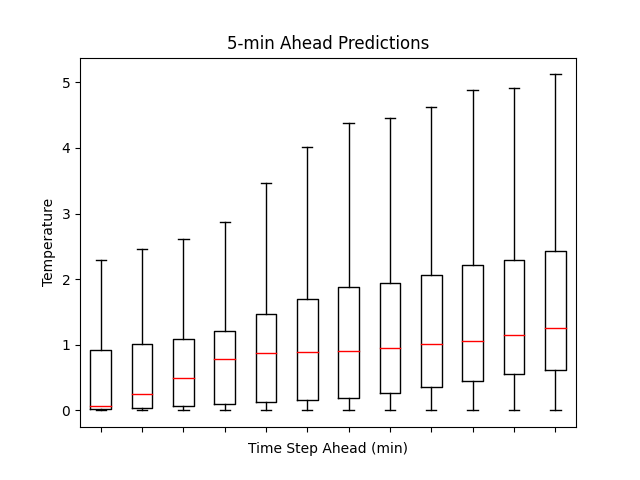
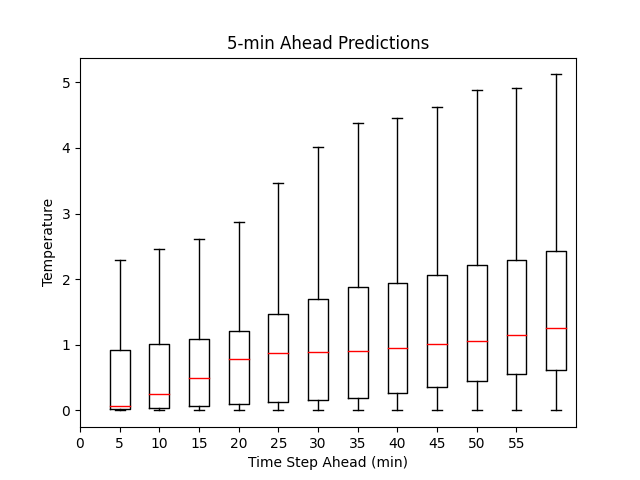
Split image plotting

diff --git a/svr_benjamin.py b/svr_benjamin.py
@@ -63,7 +63,6 @@ def test_svr_model(svr):
     scalery = MinMaxScaler()
     X_test, test_y, df_test, scalery = load_test_data("Data/TestSet.csv")
     
-    test_true_times = df_test['Minute']
     test_true_result = np.array(df_test['Actual Temperature Middle ((T[n])'])
 
     # testing
@@ -75,7 +74,7 @@ def test_svr_model(svr):
     inside_temp_sim = []
     inside_temp_sim.append(scalery.inverse_transform(test_y[0].reshape(1,-1)))
 
-    return test_true_result, X_test, scalery, inside_temp_sim, test_true_times
+    return test_true_result, X_test, scalery, inside_temp_sim
 
 
 def run_simulation_benjamin(svr, scalery, X_test):
@@ -115,34 +114,33 @@ def run_simulation_benjamin(svr, scalery, X_test):
     return predicted_internal_temp, tempterature_errors, fan_predictions
 
 
-def plot_data(test_true_result, plot_array, X_test, fan_pred, error_array, true_test_times):
-    N = len(true_test_times)
-    # N = len(test_true_result)
+
+def plot_temperatrues(true_temperatures, predicted_temperatures, X_test, fan_pred):
+    N = len(true_temperatures)
 
     x_labels = np.arange(0,N,1)
 
-    plt.plot(x_labels[0:N-12],test_true_result[0:N-12], color='blue', alpha = 0.8, label='Actual Temperature')
-    plt.plot(x_labels[0:N-12],plot_array, color='red', alpha=0.7, label='Predicted Temperature (1 hour ahead)')
+    plt.plot(x_labels[0:N-12], true_temperatures[0:N-12], color='blue', alpha = 0.8, label='Actual Temperature')
+    plt.plot(x_labels[0:N-12], predicted_temperatures, color='red', alpha=0.7, label='Predicted Temperature (1 hour ahead)')
     plt.plot(x_labels[0:N-12], X_test[:N-12,3]*5, color='black', alpha=0.8, label='True Fan State')
     plt.plot(x_labels[0:N-12], np.array(fan_pred)*0.8, color='green', label='Simulated Fan State')
 
     plt.xlabel("Time (5-minute Intervals)", fontsize=15)
     plt.ylabel("Temperature (deg. C)", fontsize=15)
     plt.ylim(0, 37)
-    # plt.legend(loc=' left')\
     plt.legend(loc='center', bbox_to_anchor=(0.5, 1.1), ncol=2)
     plt.xticks(rotation=90)
     plt.grid(False)              
     plt.savefig('Imgs/Benjamin-result_1')    
     plt.show()
 
-    # Use this later
-    fig, ax = plt.subplots()
-    bp = ax.boxplot(error_array, showfliers=False, medianprops={'color': 'red'})
-    ax.set_xticklabels(np.arange(5, 5, 60))
-    ax.set_ylabel('Temperature')
-    ax.set_xlabel('Time Step Ahead (min)')
-    ax.set_title('5-min Ahead Predictions')
+def plot_prediction_errors(error_array):
+    plt.figure()
+    plt.boxplot(error_array, showfliers=False, medianprops={'color': 'red'})
+    plt.xticks(np.arange(0, 12, 1), np.arange(0, 60, 5))
+    plt.ylabel('Temperature')
+    plt.xlabel('Time Step Ahead (min)')
+    plt.title('5-min Ahead Predictions')
     plt.savefig('Imgs/Benjamin-result_2')    
 
     plt.show()
@@ -163,9 +161,10 @@ def fan_logic(previous_fan, temperature):
 if __name__ == "__main__":
     
     svr = train_svr_model()
-    test_true_result, X_test, scalery, inside_temp_sim, true_test_times = test_svr_model(svr)
+    test_true_result, X_test, scalery, inside_temp_sim = test_svr_model(svr)
     plot_array, error_array, fan_pred = run_simulation_benjamin(svr, scalery, X_test)
-    plot_data(test_true_result, plot_array, X_test, fan_pred, error_array, true_test_times)
+    plot_temperatrues(test_true_result, plot_array, X_test, fan_pred)
+    plot_prediction_errors(error_array)
     
     
     
